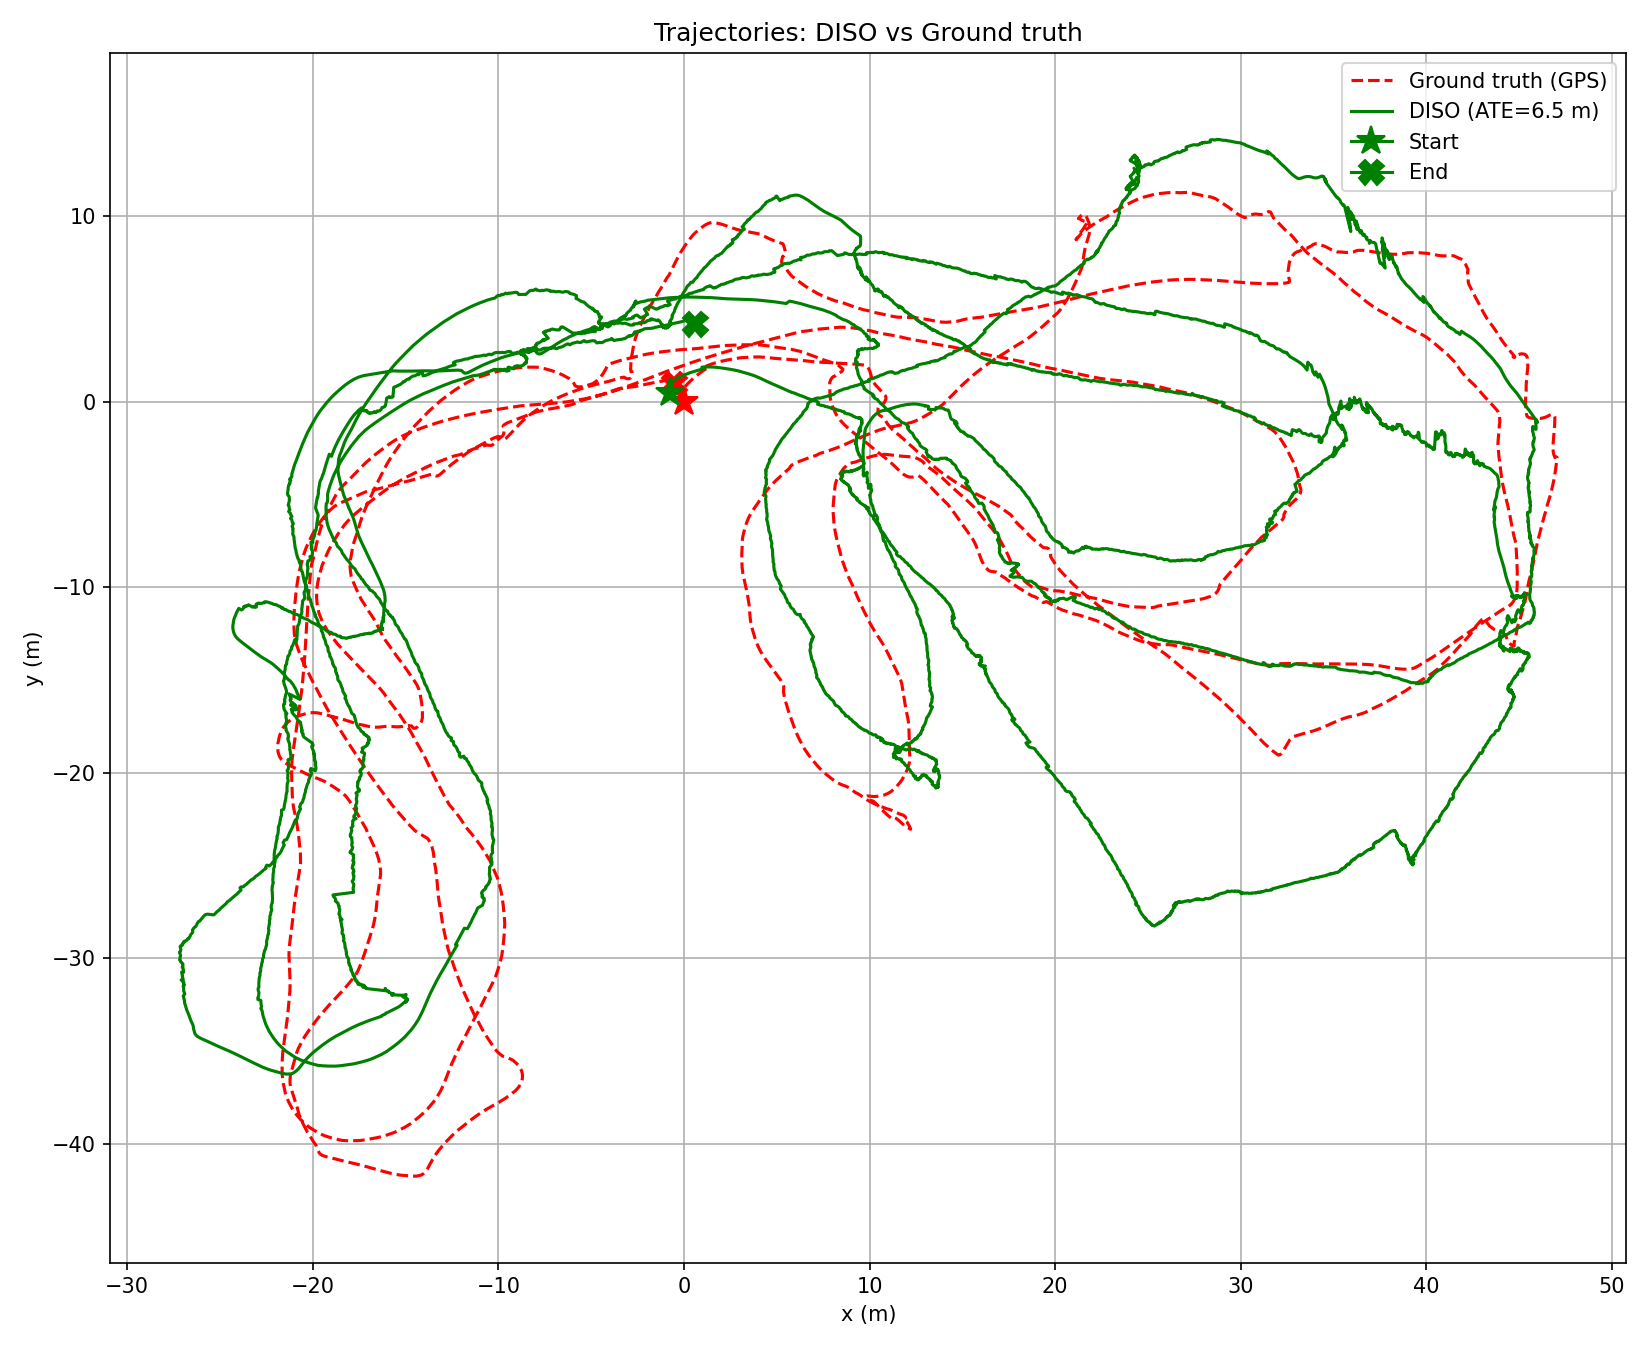
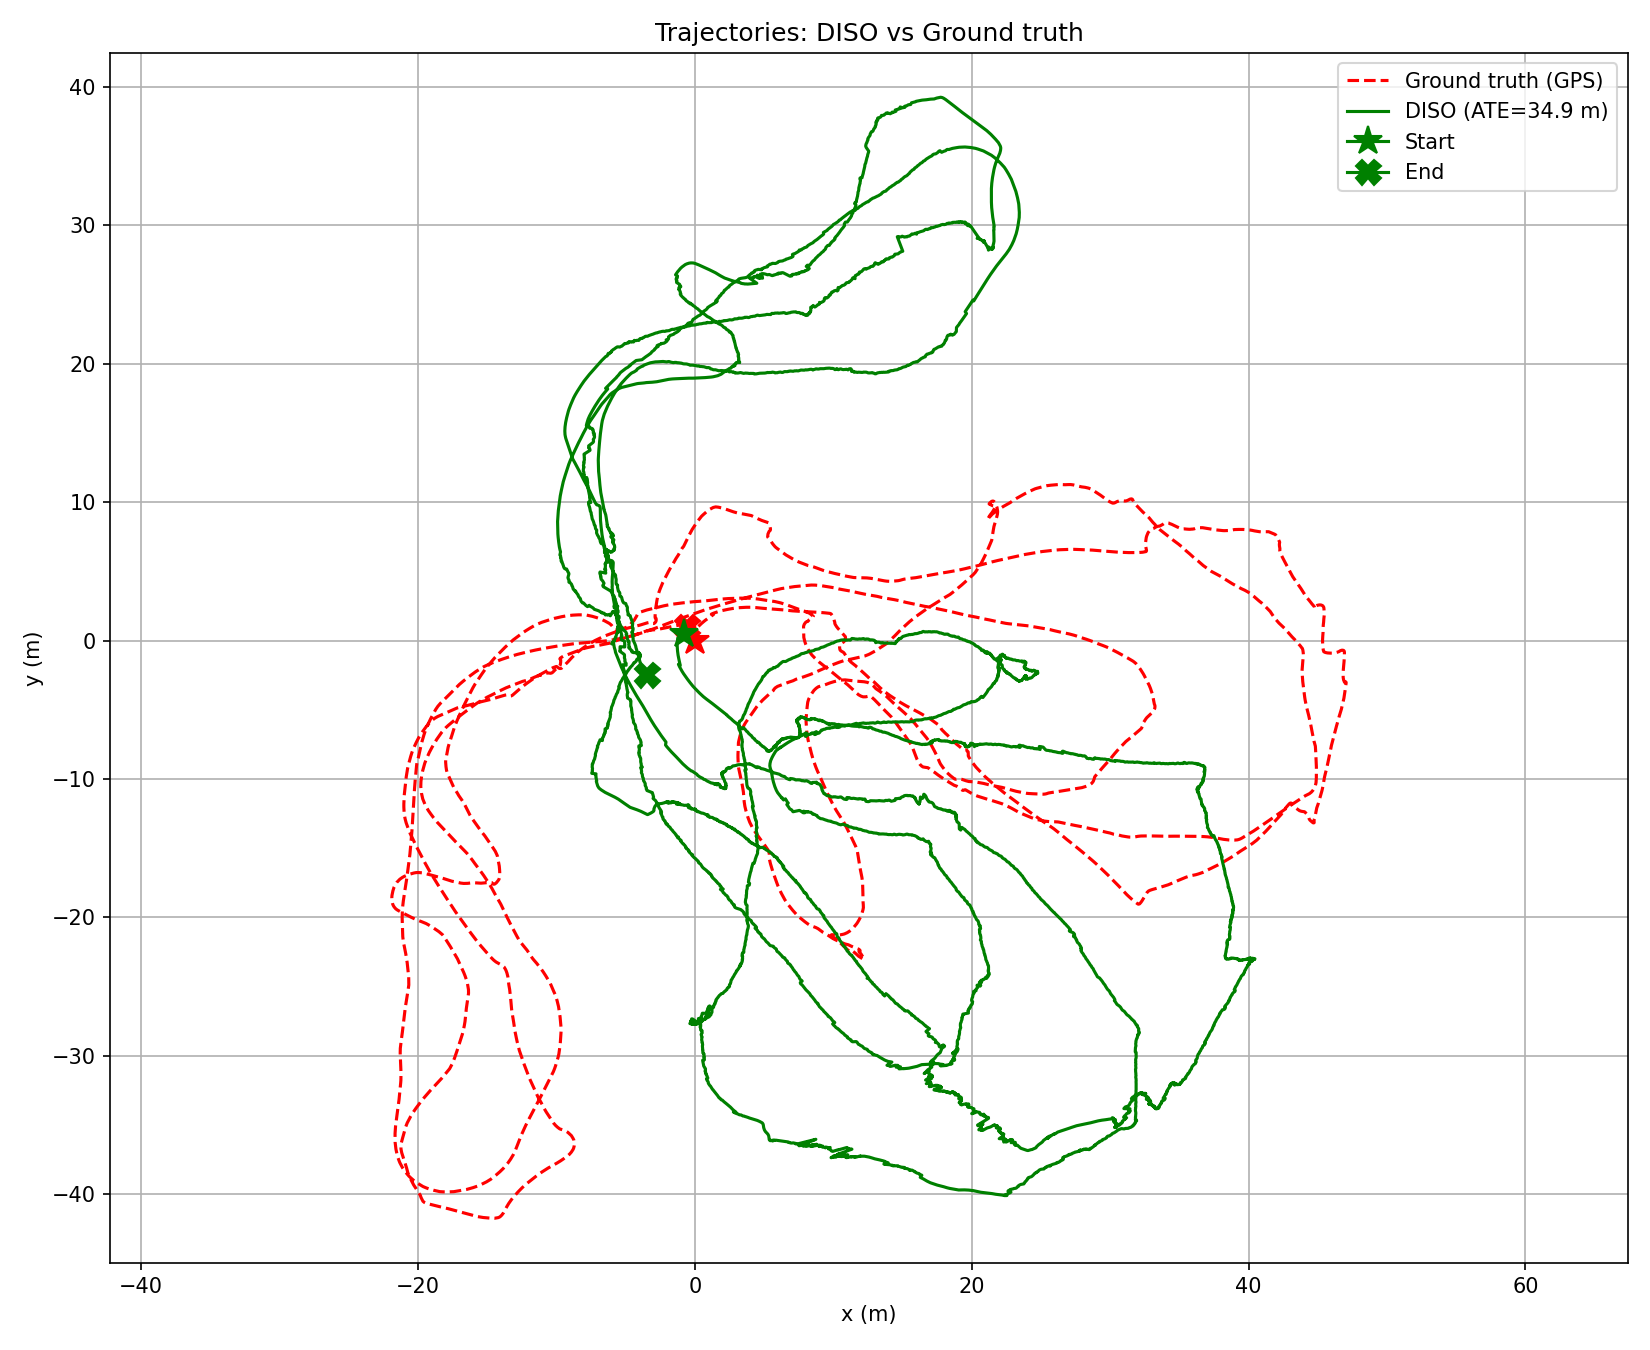
Correction rotation GT

diff --git a/analyze_drift.py b/analyze_drift.py
@@ -33,13 +33,15 @@ else:
 if os.path.exists(diso_path):
     diso = pd.read_csv(diso_path)
     ox, oy = diso["x"].to_numpy(), diso["y"].to_numpy()
-    oy = -oy  # flip Y to match frame
+    oy = -oy
     if os.path.exists(gt_path):
         ox = ox + (gx[0] - ox[0])
         oy = oy + (gy[0] - oy[0])
-    idx_d = np.round(np.linspace(0, len(gx)-1, len(ox))).astype(int) if os.path.exists(gt_path) else None
-    ate_diso = np.sqrt(np.mean((ox - gx[idx_d])**2 + (oy - gy[idx_d])**2)) if idx_d is not None else None
-    diso_label = f"DISO standalone (ATE={ate_diso:.1f} m)" if ate_diso is not None else "DISO standalone (odometry)"
+        idx_d = np.round(np.linspace(0, len(gx)-1, len(ox))).astype(int)
+        ate_diso = np.sqrt(np.mean((ox - gx[idx_d])**2 + (oy - gy[idx_d])**2))
+    else:
+        ate_diso = None
+    diso_label = f"DISO standalone (ATE={ate_diso:.1f} m)" if ate_diso is not None else "DISO standalone"
     ax.plot(ox, oy, label=diso_label, color="steelblue", linestyle=":", linewidth=2.0)
     ax.plot(ox[0], oy[0], marker="*", color="steelblue", markersize=14)
     ax.plot(ox[-1], oy[-1], marker="X", color="steelblue", markersize=12)